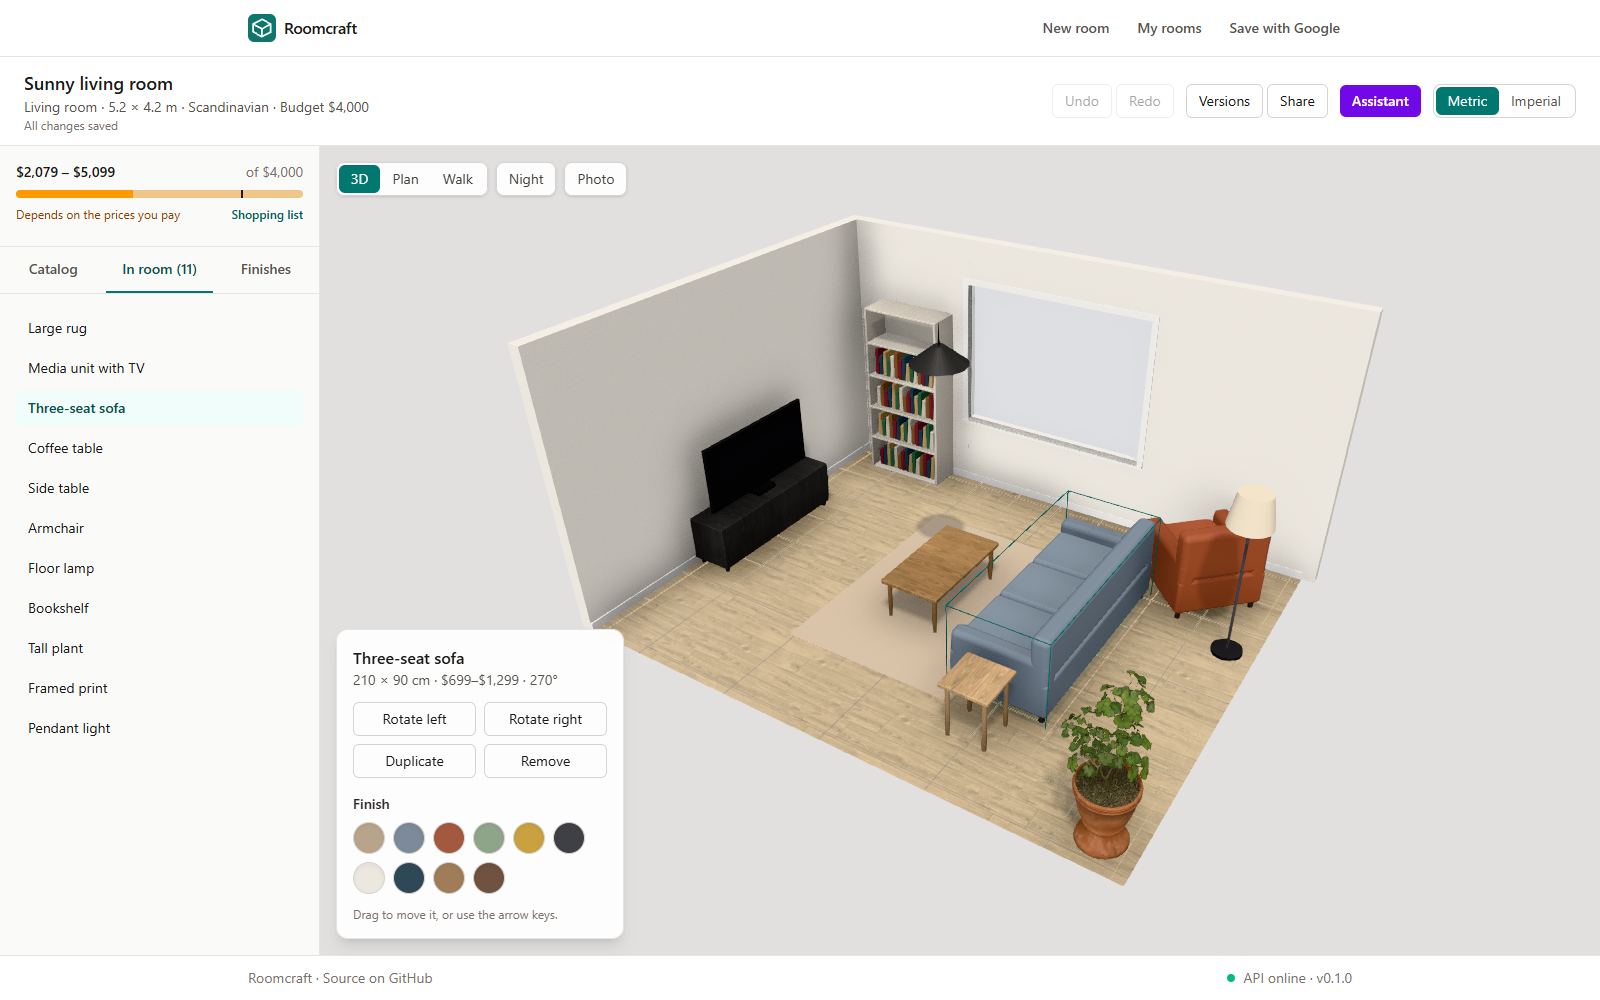
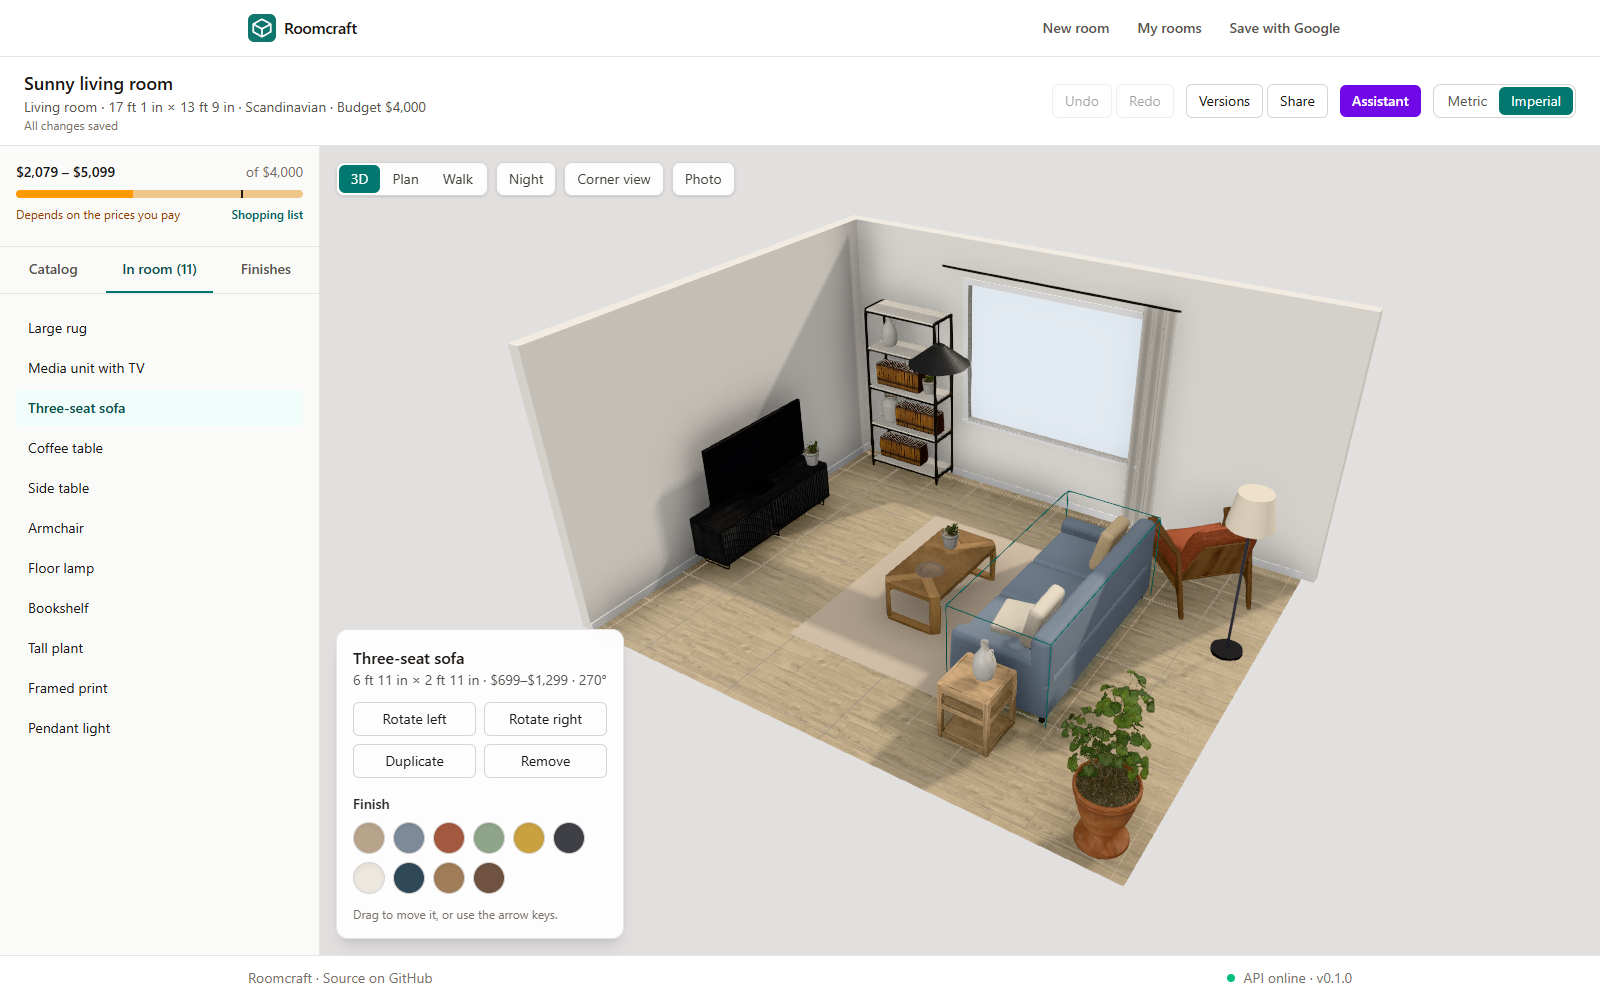
- Docs   - Refresh the editor and plan screenshots and the sample photo with the models, decor and curtains

diff --git a/README.md b/README.md
@@ -43,7 +43,7 @@ furnished room) · **API docs:** https://roomcraft-api-929h.onrender.com/docs
 | --------------------------------------------------------------------------------- | -------------------------------------------------- |
 | ![The editor with the catalog and a furnished living room](docs/media/editor.png) | ![The measured top-down plan](docs/media/plan.png) |
 
-![A path-traced photo of the living room, taken with the Photo button](docs/media/photo.jpg)
+![A path-traced photo of the living room from a corner at eye height, taken with the Photo button](docs/media/photo.jpg)
 
 ## Architecture
 
